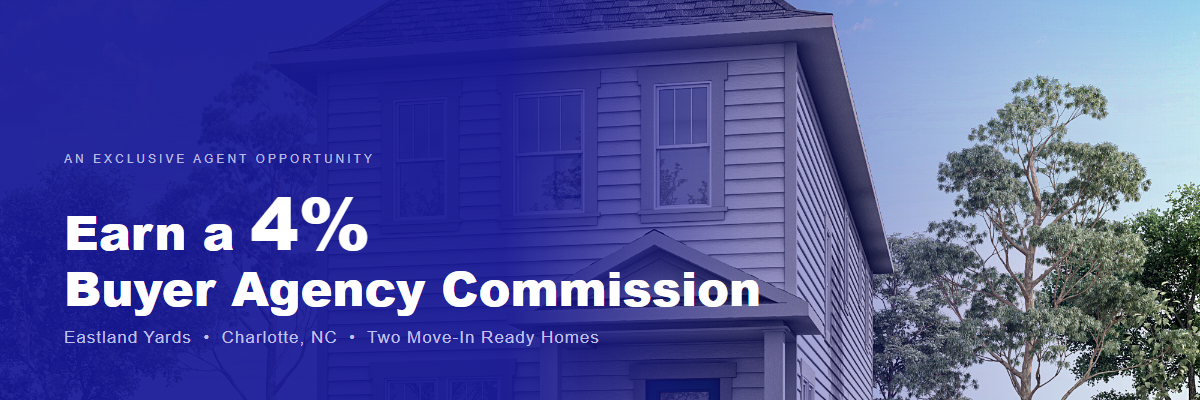
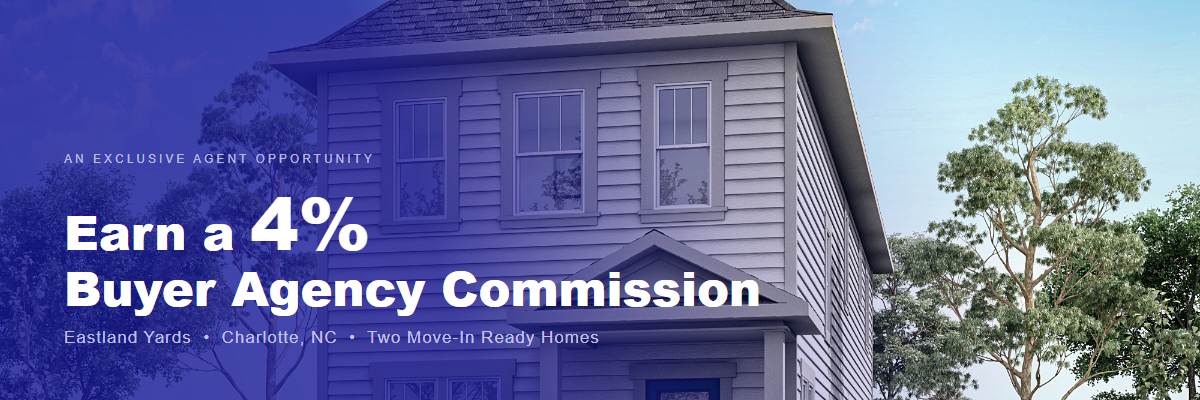
Hero: angled gradient from bottom-left, reduced opacity

diff --git a/build_hero.js b/build_hero.js
@@ -16,7 +16,7 @@ const path = require('path');
     body { width:1200px; height:500px; overflow:hidden; font-family:Arial,sans-serif; }
     .wrap { position:relative; width:1200px; height:500px; }
     .photo { position:absolute; inset:0; width:100%; height:100%; object-fit:cover; object-position:center; }
-    .overlay { position:absolute; inset:0; background:linear-gradient(to right, rgba(23,23,150,0.93) 0%, rgba(23,23,150,0.93) 42%, rgba(23,23,150,0.45) 62%, rgba(23,23,150,0) 100%); }
+    .overlay { position:absolute; inset:0; background:linear-gradient(70deg, rgba(23,23,150,0.82) 0%, rgba(23,23,150,0.78) 38%, rgba(23,23,150,0.25) 60%, rgba(23,23,150,0) 80%); }
     .content {
       position:absolute; inset:0;
       display:flex; flex-direction:column; justify-content:center;
